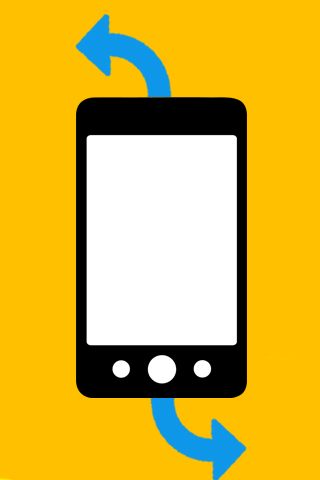
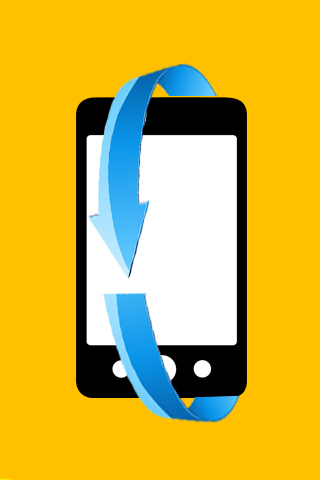
fixed images

Changed region(s): [[0.2188, 0.0312, 0.7812, 1.0]]

diff --git a/Bopit/app/src/main/java/com/bopit/app/GameActivity.java b/Bopit/app/src/main/java/com/bopit/app/GameActivity.java
@@ -29,7 +29,7 @@ public class GameActivity extends Activity implements SensorEventListener {
     Bundle extras;
     private int players = 0;
     private int actualPlayer = 0;
-    private int playeds[] = {0,1,2,3,4,5};
+    private int playeds[] = {0,1,2,3,4};
     private int movementsNumber = 0;
     private boolean gameOver = false;
     private int lastPlayer = 0;
@@ -97,7 +97,7 @@ public class GameActivity extends Activity implements SensorEventListener {
         actionsMap.put(2,"slide");
         actionsMap.put(3,"tap");
         actionsMap.put(4,"turn");
-        actionsMap.put(5,"twist");
+        //actionsMap.put(5,"twist");
         i = 0;
         layout = (RelativeLayout) findViewById(R.id.back);
 
@@ -154,7 +154,7 @@ public class GameActivity extends Activity implements SensorEventListener {
                 //tvm.setText("FAP");
                 capture = false;
                 timer.cancel();
-                if(movements.get(i) == 2){
+                if(movements.get(i) == 1){
                     i++;
                     play(movements,i);
                 }else{
@@ -166,31 +166,31 @@ public class GameActivity extends Activity implements SensorEventListener {
                 //tvm.setText("ROLL");
                 capture = false;
                 timer.cancel();
-                if(movements.get(i) == 2){
+                if(movements.get(i) == 4){
                     i++;
                     play(movements,i);
                 }else{
                     completeTask();
                 }
             }
-            if(mrx > 9 && mry > 9 && mrz < 12 && mrx > mrz && mry > mrz) {
+            /*if(mrx > 9 && mry > 9 && mrz < 12 && mrx > mrz && mry > mrz) {
                 Toast.makeText(this, "Twist", Toast.LENGTH_SHORT).show();
                 //tvm.setText("TWIST");
                 capture = false;
                 timer.cancel();
-                if(movements.get(i) == 2){
+                if(movements.get(i) == 5){
                     i++;
                     play(movements,i);
                 }else{
                     completeTask();
                 }
-            }
+            }*/
             if(mry > 9 && mrz > 9 && mry > mrx && mrz > mrx) {
                 Toast.makeText(this, "Flip", Toast.LENGTH_SHORT).show();
                 //tvm.setText("FLIP");
                 capture = false;
                 timer.cancel();
-                if(movements.get(i) == 2){
+                if(movements.get(i) == 0){
                     i++;
                     play(movements,i);
                 }else{
@@ -344,13 +344,13 @@ public class GameActivity extends Activity implements SensorEventListener {
                 //mp.start();
                 //sound.play(R.raw.sflip, 0.99f, 0.99f, 0, 0, 1);
                 break;
-            case 5:
+            /*case 5:
                 layout.setBackgroundResource(R.drawable.twist);
                 //sound.playShortResource(R.raw.sflip);
                 //mp = MediaPlayer.create(this, R.raw.twist);
                 //mp.start();
                 //sound.play(R.raw.sflip, 0.99f, 0.99f, 0, 0, 1);
-                break;
+                break;*/
         }
 
 
@@ -387,7 +387,7 @@ public class GameActivity extends Activity implements SensorEventListener {
                 actualPlayer = r.nextInt(1 + players+1);
             }
 
-            movementsNumber = r.nextInt(3 + 9);
+            movementsNumber = r.nextInt(3 + 9) + 1;
 
             for (int i = 0;i<movementsNumber;i++){
                 movements.add(playeds[r.nextInt(0+playeds.length)]);
